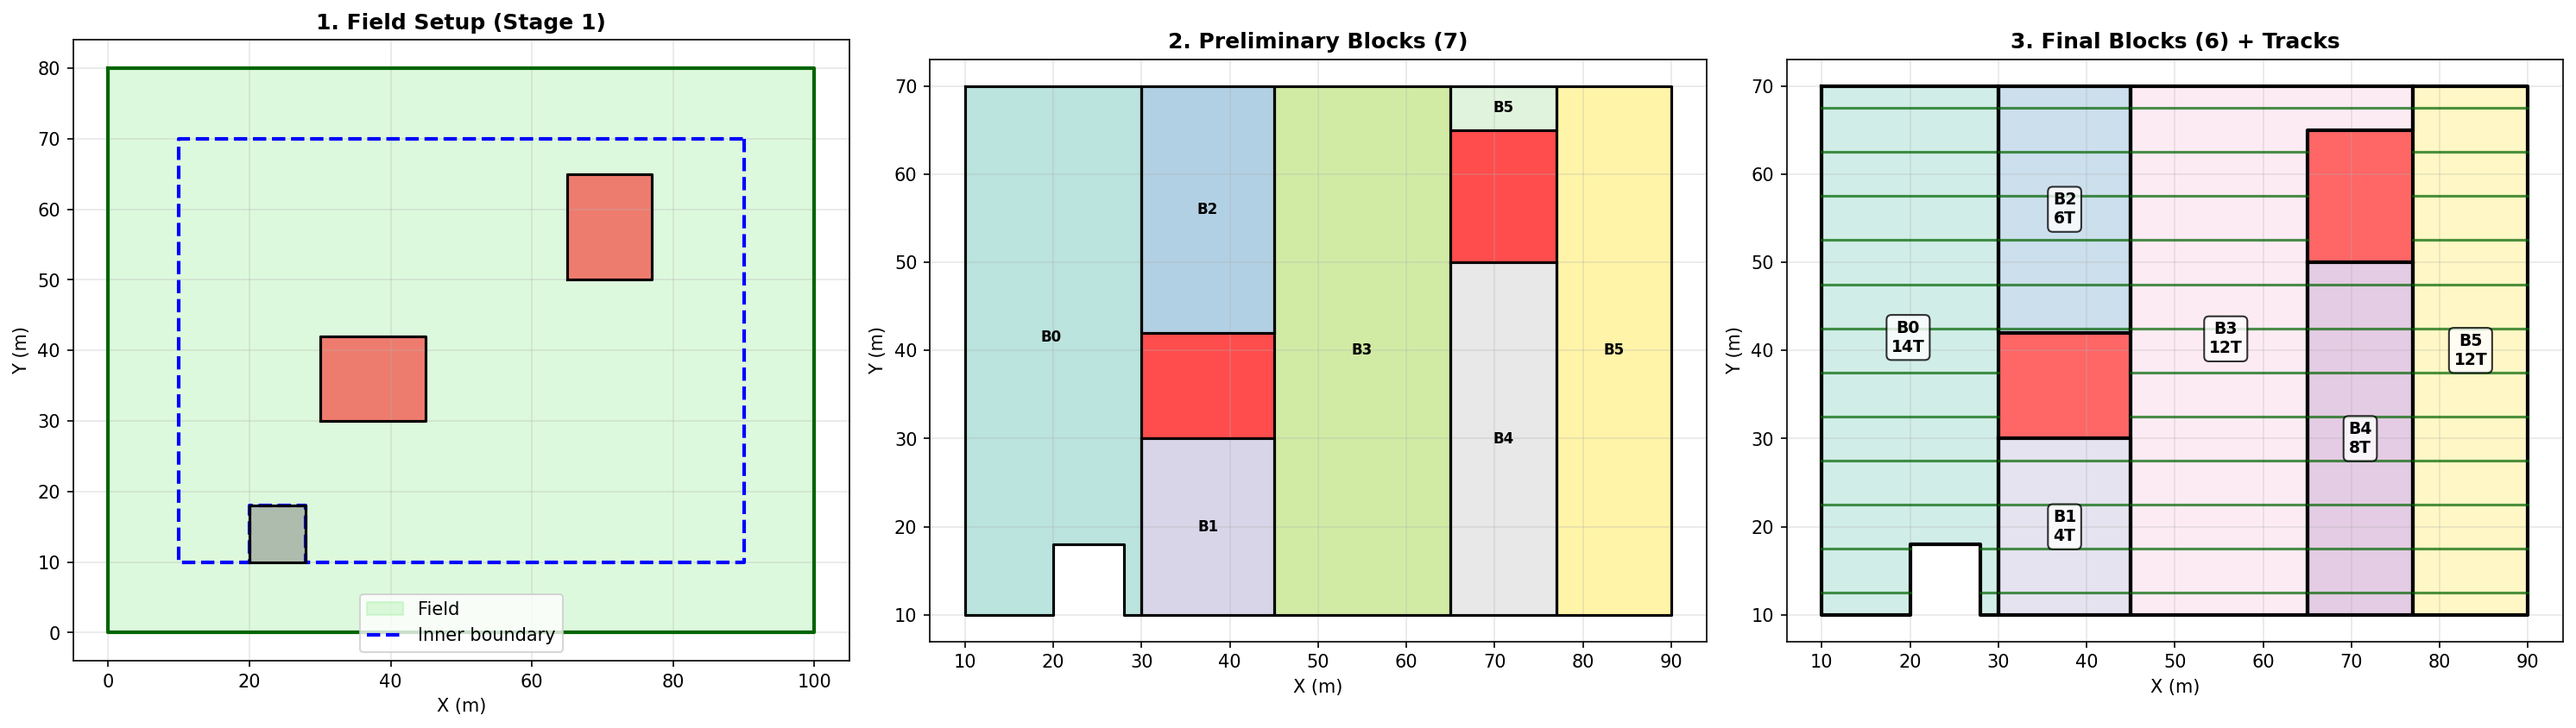
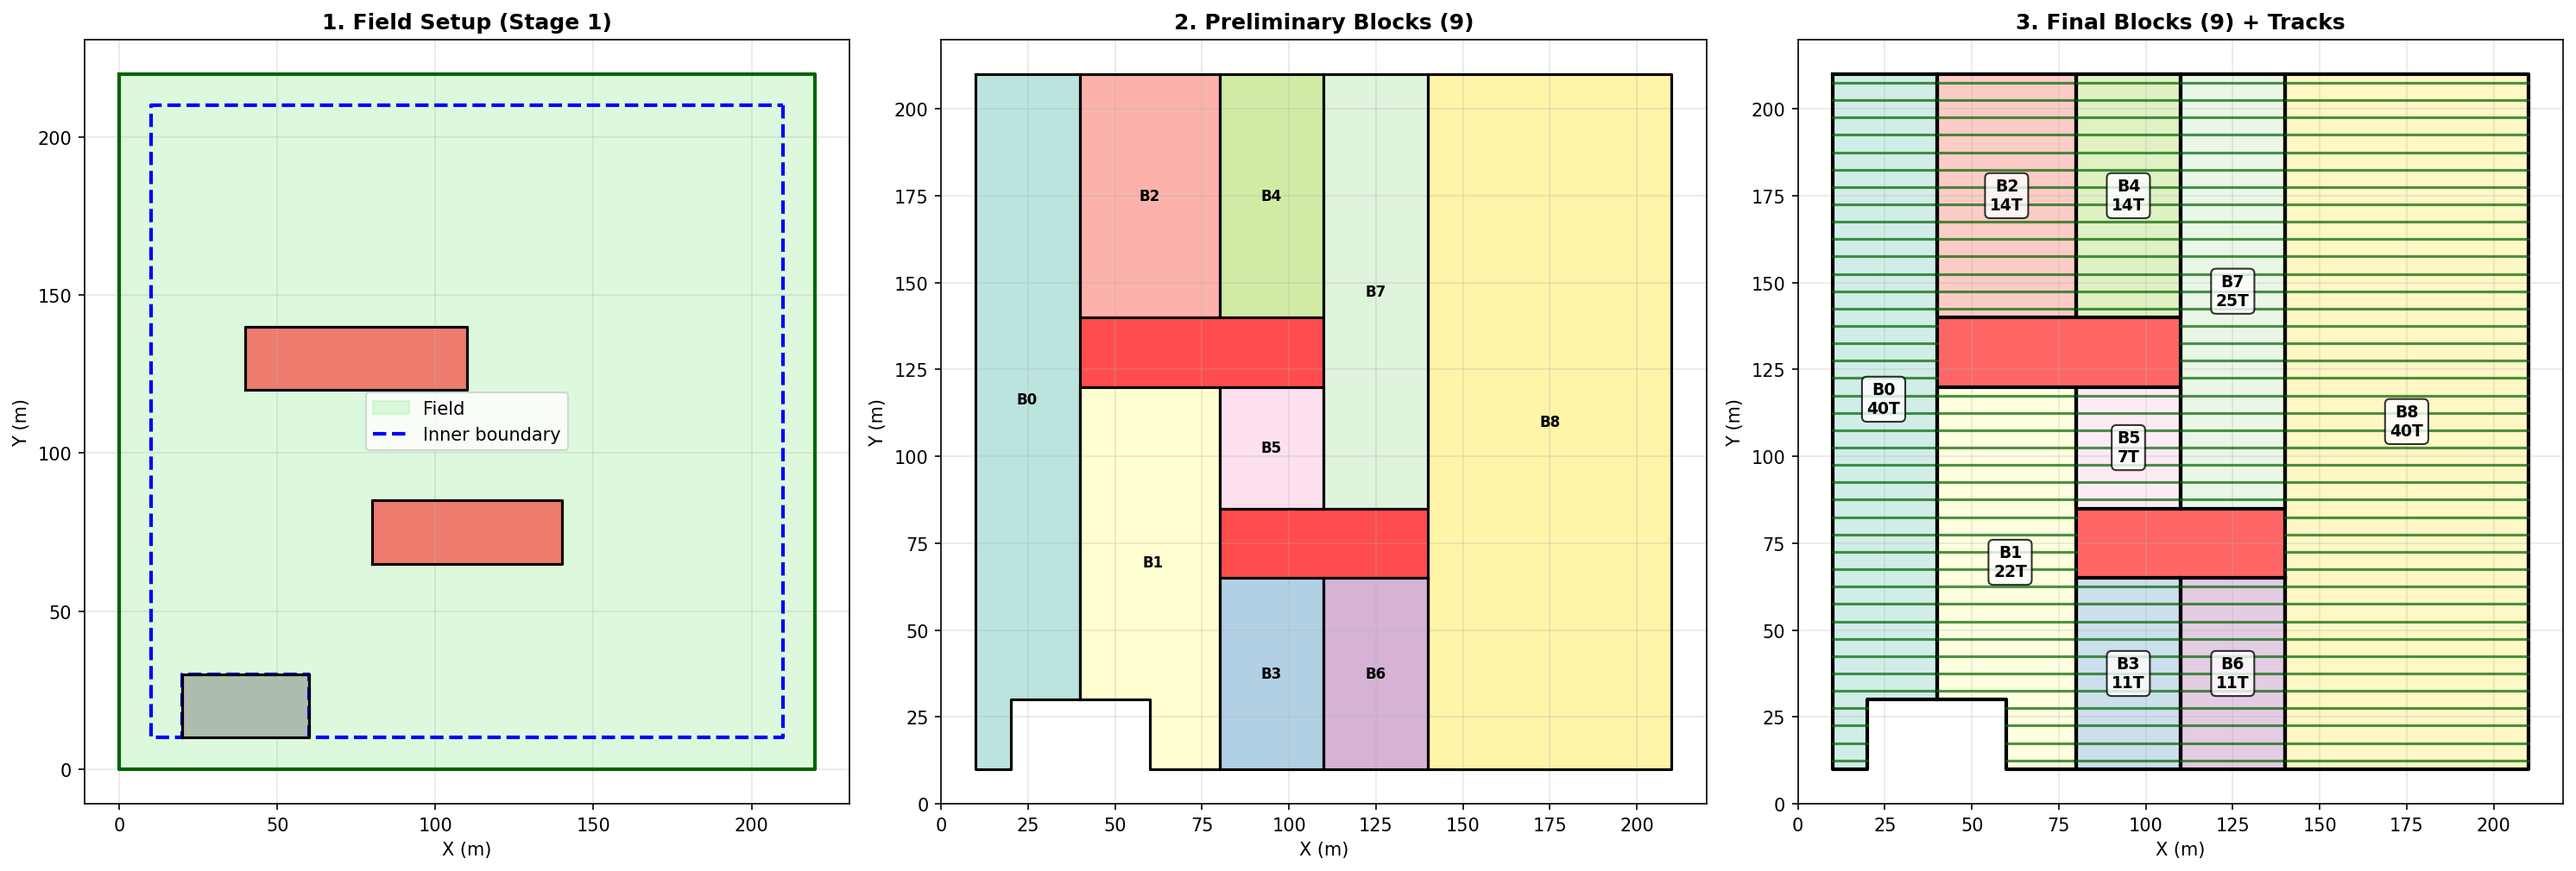
update the report field data

diff --git a/examples/stage3_optimization.py b/examples/stage3_optimization.py
@@ -242,14 +242,14 @@ def run_demo(seed=None):
     print("\n[1/5] Creating field with obstacles...")
 
     field = create_field_with_rectangular_obstacles(
-        field_width=100,
-        field_height=80,
+        field_width=220,
+        field_height=220,
         obstacle_specs=[
-            (30, 30, 15, 12),  # Obstacle 1 (same as Stage 1 & 2)
-            (65, 50, 12, 15),  # Obstacle 2 (same as Stage 1 & 2)
-            (20, 10, 8, 8),    # Obstacle 3 (same as Stage 1 & 2)
+            (80, 65, 60, 20),  # Obstacle 1
+            (40, 120, 70, 20),  # Obstacle 2
+            (20, 10, 40, 20),  # Obstacle 3 (near boundary)
         ],
-        name="Stage 3 Demo Field",
+        name="Demo Field",
     )
 
     params = FieldParameters(

diff --git a/examples/stage2_decomposition.py b/examples/stage2_decomposition.py
@@ -71,14 +71,14 @@ def visualize_stage2_pipeline():
 
     # Create field with multiple obstacles
     field = create_field_with_rectangular_obstacles(
-        field_width=100,
-        field_height=80,
+        field_width=220,
+        field_height=220,
         obstacle_specs=[
-            (30, 30, 15, 12),  # Large obstacle 1
-            (65, 50, 12, 15),  # Large obstacle 2
-            (20, 10, 8, 8),  # Small obstacle near boundary
+            (80, 65, 60, 20),  # Obstacle 1
+            (40, 120, 70, 20),  # Obstacle 2
+            (20, 10, 40, 20),  # Obstacle 3 (near boundary)
         ],
-        name="Stage 2 Demo Field",
+        name="Demo Field",
     )
 
     # Parameters (same as Stage 1 demo for consistency)

diff --git a/examples/stage1_geometry.py b/examples/stage1_geometry.py
@@ -59,12 +59,12 @@ def visualize_stage1_pipeline():
     # Create field with multiple obstacles
     print("Creating field with obstacles...")
     field = create_field_with_rectangular_obstacles(
-        field_width=100,
-        field_height=80,
+        field_width=220,
+        field_height=220,
         obstacle_specs=[
-            (30, 30, 15, 12),  # Obstacle 1
-            (65, 50, 12, 15),  # Obstacle 2
-            (20, 10, 8, 8),  # Obstacle 3 (near boundary)
+            (80, 65, 60, 20),  # Obstacle 1
+            (40, 120, 70, 20),  # Obstacle 2
+            (20, 10, 40, 20),  # Obstacle 3 (near boundary)
         ],
         name="Demo Field",
     )
